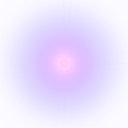
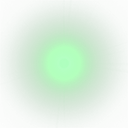
added bg

diff --git a/public/js/Scene2.js b/public/js/Scene2.js
@@ -5,7 +5,7 @@ class Scene2 extends Phaser.Scene {
         this.myScore = 0;
         this.theirScore = 0;
         this.particleConfig = {
-            angle: { min: 170, max: 190 },
+            angle: { min: 160, max: 200 },
             scale: { start: 0.4, end: 0.1 },
             blendMode: 'ADD',
             lifespan: 250,
@@ -13,11 +13,12 @@ class Scene2 extends Phaser.Scene {
     }
 
     preload() {
-        //this.load.image('star', '../assets/snack.png')
         this.load.image('scooby', '../assets/scoobs.png')
         this.load.image('shaggy', '../assets/shags.png')
         this.load.image('bomb', '../assets/snack.png')
-        this.load.image("flares", '../assets/yellow.png')
+        this.load.image('bg', '../assets/ScoobyDoobieBackground.png')
+        this.load.image("blueFlares", '../assets/blue.png')
+        this.load.image("greenFlares", '../assets/scoob_particle.png')
     }
 
     onCollision(x, star) {
@@ -32,12 +33,16 @@ class Scene2 extends Phaser.Scene {
     }
 
     create(data) {
+        this.add.image(0, 0, "bg").setOrigin(0, 0).setScale(1);
+
         this.side = data.selectedSide;
         if (this.side === "leftSide") {
             this.player = this.physics.add.sprite(400,300, 'shaggy');
+            this.particles = this.add.particles("greenFlares");
             this.player.setScale(0.05)
         } else {
             this.player = this.physics.add.sprite(400,300, 'scooby');
+            this.particles = this.add.particles("blueFlares");
             this.player.setScale(0.05)
         }
         this.player.setMaxVelocity(1000).setFriction(800, 800);
@@ -48,8 +53,6 @@ class Scene2 extends Phaser.Scene {
         this.socket = data.socket;
         this.physics.add.overlap(this.player, this.bullets, this.onCollision, null, this)
         this.player.body.setCollideWorldBounds(true);
-
-        this.particles = this.add.particles("flares");
 
         if (this.side == "leftSide") {
             this.flip = 1;

diff --git a/public/js/Bullet.js b/public/js/Bullet.js
@@ -8,10 +8,9 @@ class Bullet extends Phaser.Physics.Arcade.Image {
     fire(player, data) {
         this.selectedSide = data.selectedSide;
         this.selectedSide == "leftSide" ? 
-            this.setPosition(player.x + 25, player.y) :
-            this.setPosition(player.x - 25, player.y) 
+            this.setPosition(player.x + 60, player.y) :
+            this.setPosition(player.x - 100, player.y) 
             
-        // this.setPosition(player.x, player.y);
         this.speed = Phaser.Math.GetSpeed(data.v * 1000, 1)
         this.born = 0;
         this.enableBody();
